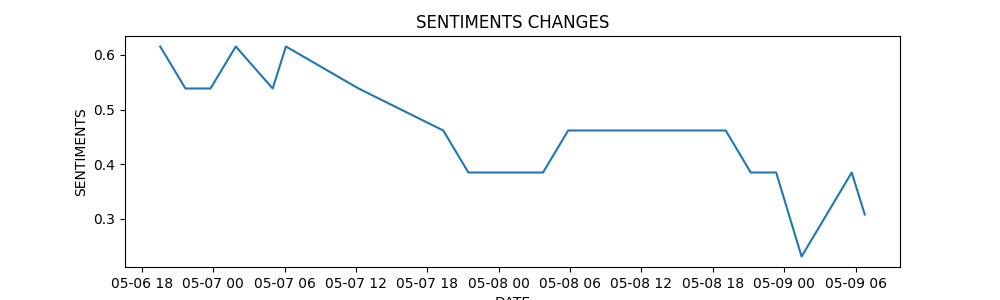
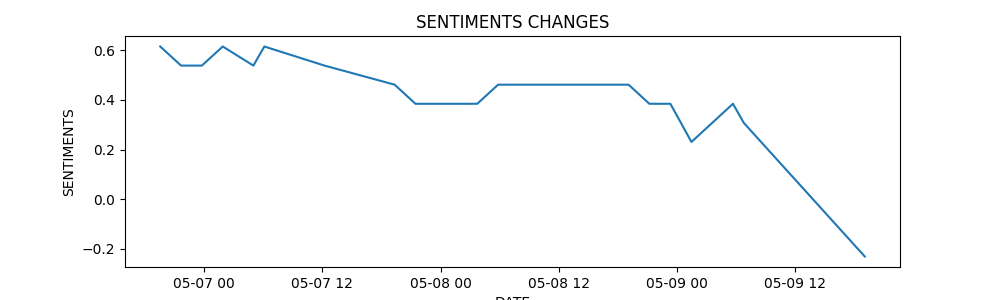
Commit

diff --git a/finance.html b/finance.html
@@ -13,7 +13,7 @@
                 <img style = "width:70px;" src="image/MNAZ.gif" alt="MNAZ Web">
                 <button id="darkModeToggle">Toggle Dark Mode</button>
               </header>
-              <h2>Date: 2023-05-09 06:46:49.990405</h2>
+              <h2>Date: 2023-05-09 19:03:47.522112</h2>
               <div class="container">
                 <div class="half">
                   <h2>News</h2>
@@ -21,9 +21,11 @@
                   <a href = "https://www.investing.com/currencies/usd-jpy-news" target = "_blank">Scraped From Investing.com </a>
                   <ul id="newsList" class="hidden">
                       
-<li style = 'font-weight: bold;'>Wall Street ends near flat ahead of inflation data<ul><li style = 'font-size: smaller;font-style: italic;'>Neutral</li></ul></li>
-<li style = 'font-weight: bold;'>Biden, McCarthy aim to break US debt-ceiling standoff as default crisis looms<ul><li style = 'font-size: smaller;font-style: italic;'>Neutral</li></ul></li>
-<li style = 'font-weight: bold;'>Shares rise, dollar flat ahead of key U.S. inflation data<ul><li style = 'font-size: smaller;font-style: italic;'>Positive</li></ul></li>
+<li style = 'font-weight: bold;'>U.S. CPI ahead, Chinese trade data, Saudi Aramco dividend - what's moving markets<ul><li style = 'font-size: smaller;font-style: italic;'>Neutral</li></ul></li>
+<li style = 'font-weight: bold;'>Lowered margin growth expectations push PayPal shares lower despite Q1 beat<ul><li style = 'font-size: smaller;font-style: italic;'>Negative</li></ul></li>
+<li style = 'font-weight: bold;'>4 big analyst picks: Block a Buy after Q1<ul><li style = 'font-size: smaller;font-style: italic;'>Neutral</li></ul></li>
+<li style = 'font-weight: bold;'>Marketmind: Showdown on the ceiling<ul><li style = 'font-size: smaller;font-style: italic;'>Neutral</li></ul></li>
+<li style = 'font-weight: bold;'>Chinese data, U.S. debt ceiling worries send shares lower<ul><li style = 'font-size: smaller;font-style: italic;'>Negative</li></ul></li>
 <li style = 'font-weight: bold;'>Shares rise, dollar flat ahead of key U.S. inflation data<ul><li style = 'font-size: smaller;font-style: italic;'>Positive</li></ul></li>
 <li style = 'font-weight: bold;'>Stock market today: Dow slips to close lower ahead of key inflation report<ul><li style = 'font-size: smaller;font-style: italic;'>Negative</li></ul></li>
 <li style = 'font-weight: bold;'>S&P 500 struggles for direction ahead of inflation data<ul><li style = 'font-size: smaller;font-style: italic;'>Neutral</li></ul></li>
@@ -32,8 +34,6 @@
 <li style = 'font-weight: bold;'>Top 5 things to watch in markets in the week ahead<ul><li style = 'font-size: smaller;font-style: italic;'>Neutral.</li></ul></li>
 <li style = 'font-weight: bold;'>InvestingPro exclusive: Vertex is a Biotech Beast + 4 More Poised to Soar<ul><li style = 'font-size: smaller;font-style: italic;'>Positive</li></ul></li>
 <li style = 'font-weight: bold;'>Warren Buffett faults handling of bank failures, upbeat on U.S., Berkshire<ul><li style = 'font-size: smaller;font-style: italic;'>Neutral</li></ul></li>
-<li style = 'font-weight: bold;'>Buffett's Berkshire posts $35.5 billion profit, buys back more stock<ul><li style = 'font-size: smaller;font-style: italic;'>Positive</li></ul></li>
-<li style = 'font-weight: bold;'>Buffett set for 59th shareholder marathon as big questions loom<ul><li style = 'font-size: smaller;font-style: italic;'>Neutral</li></ul></li>
                   </ul>
                 </div>
                 <div class="half">
@@ -44,10 +44,10 @@
                 <p style = 'font-weight:bold;'>ChatGPT SENTIMENTS</p>
                 <ul>
                     <li style = 'font-size: smaller;font-style: italic;'>
-                        Positive: 4
+                        Positive: 2
                     </li>
                     <li style = 'font-size: smaller;font-style: italic;'>
-                        Negative: 1
+                        Negative: 3
                     </li>
                     <li style = 'font-size: smaller;font-style: italic;'>
                         Neutral: 8
@@ -56,19 +56,19 @@
                 <p style = 'font-weight:bold;'>VADER SENTIMENTS</p>
                 <ul>
                     <li style = 'font-size: smaller;font-style: italic;'>
-                        Positive: 38%
+                        Positive: 30%
                     </li>
                     <li style = 'font-size: smaller;font-style: italic;'>
                         Negative: 46%
                     </li>
                     <li style = 'font-size: smaller;font-style: italic;'>
-                        Neutral: 15%
+                        Neutral: 23%
                     </li>
                 </ul>
                 <p style = 'font-weight:bold;'>BAYES CLASS</p>
                 <ul>
                     <li style = 'font-size: smaller;font-style: italic;'>
-                        SELL
+                        BUY
                     </li>
                 
                     </li>
